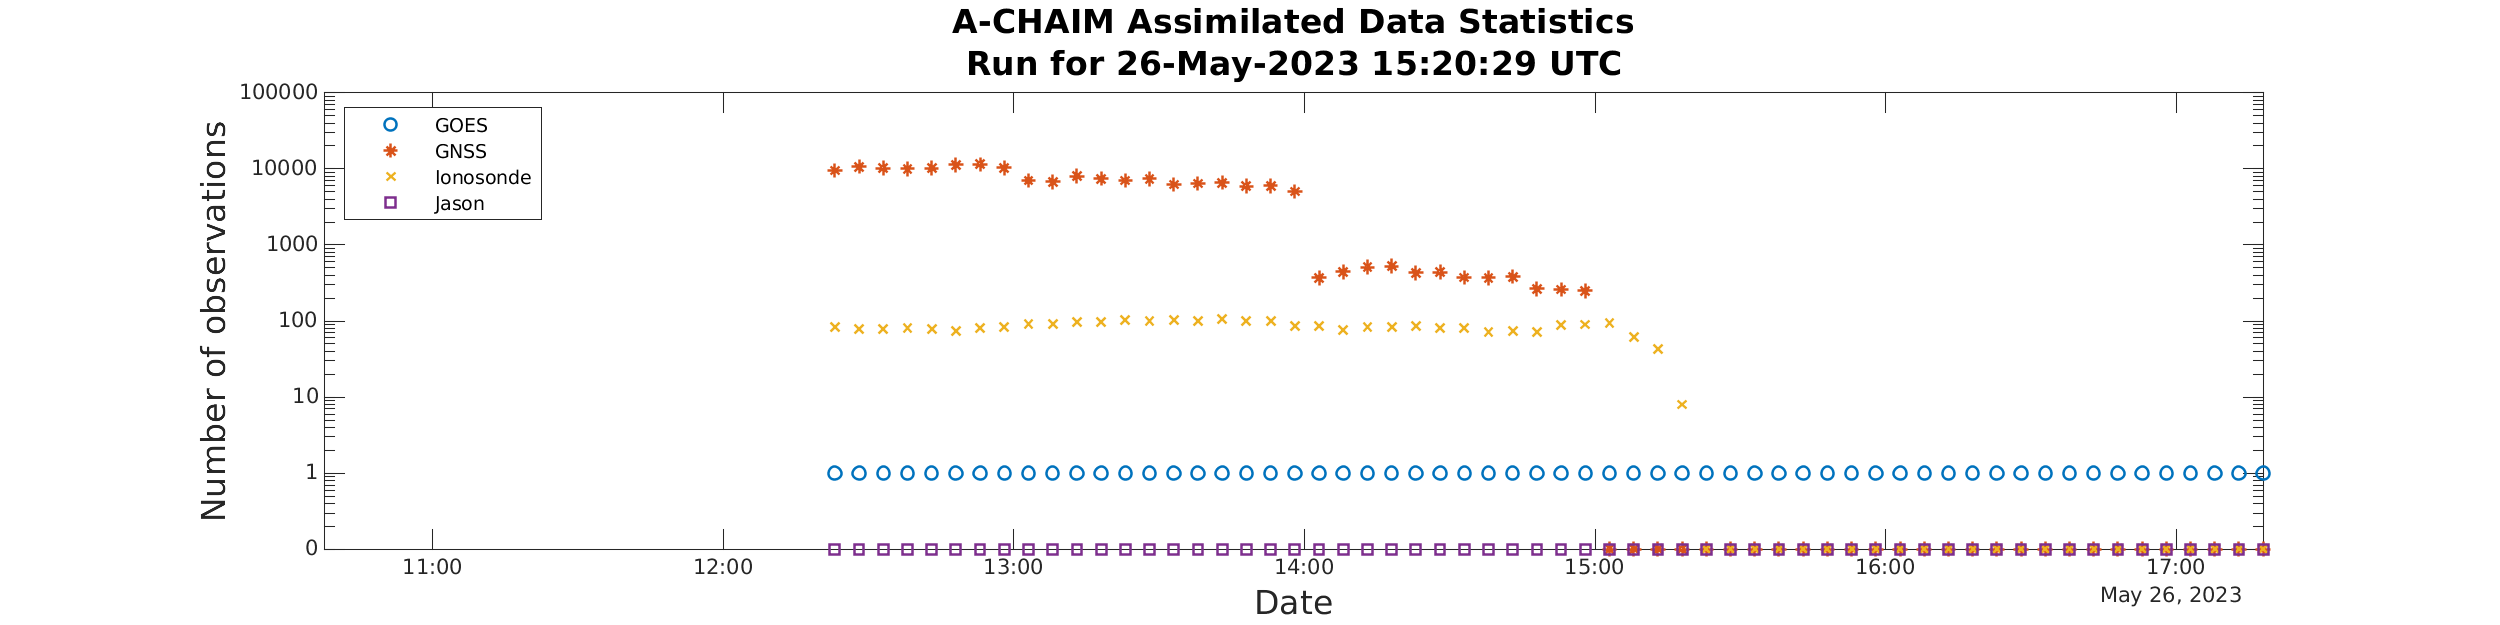
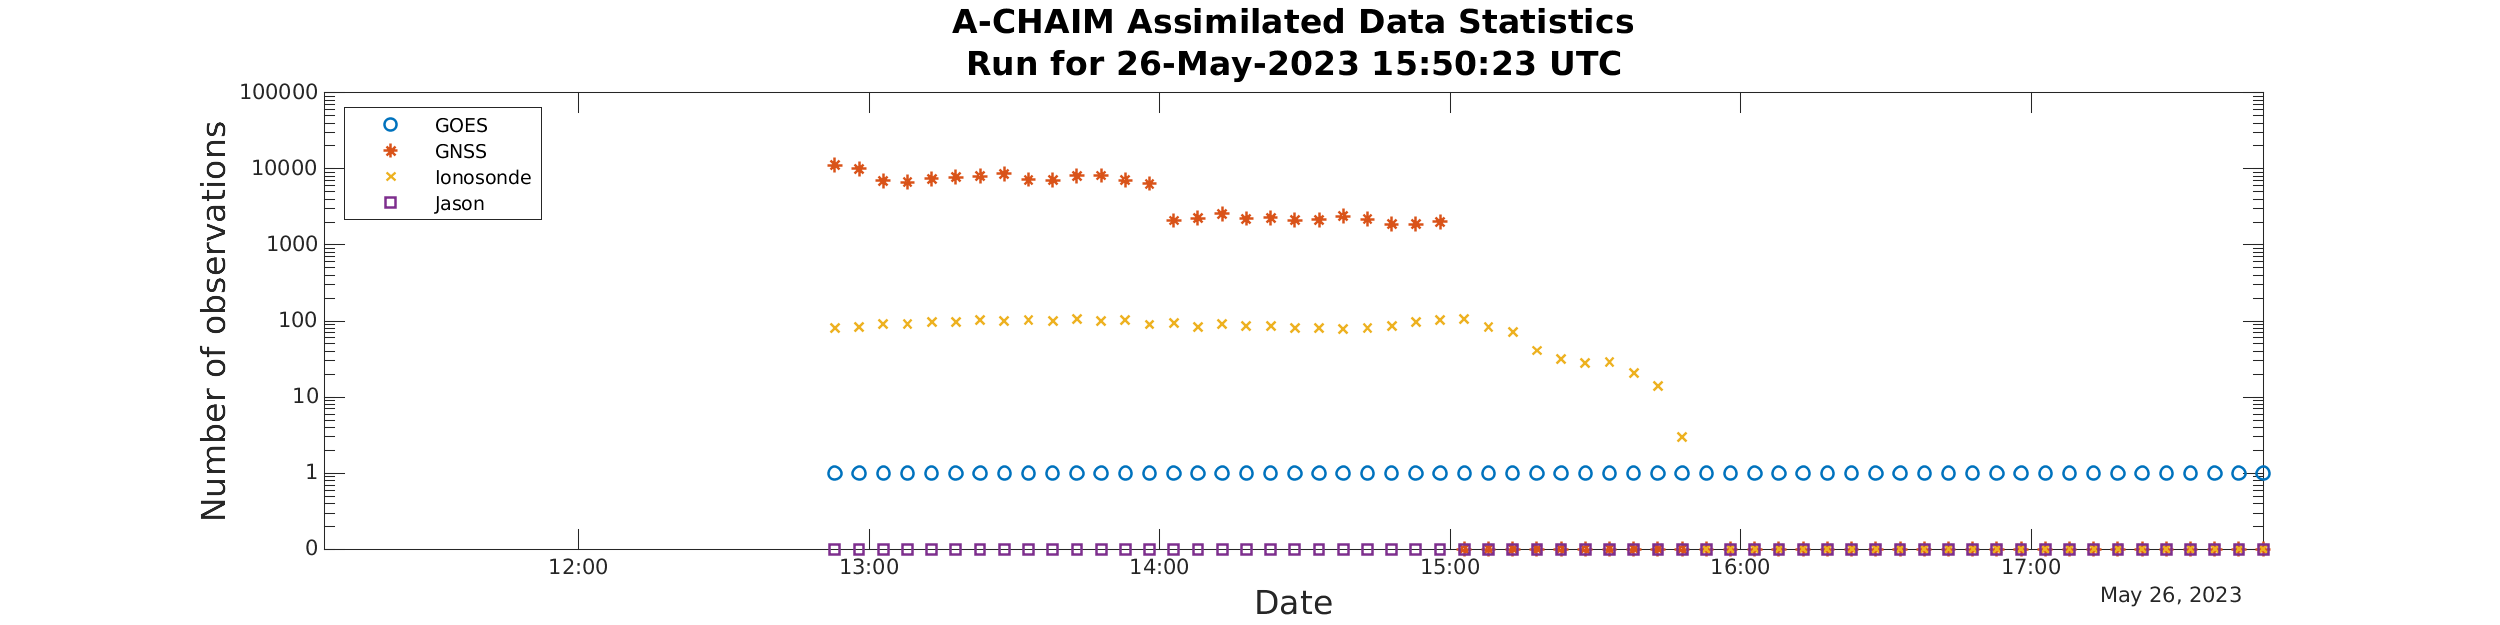
update 2023-05-26 16:14:57

diff --git a/_posts/2023-05-26-15-50-23.md b/_posts/2023-05-26-15-50-23.md
@@ -1,8 +1,8 @@
 ---
 layout: post
-title: "2023-05-26 15:20:29"
-subtitle: "ModelData Issues: 4; A-CHAIM System Issues: 1"
-
+title: "2023-05-26 15:50:23"
+subtitle: "ModelData Issues: 4; A-CHAIM System Issues: 0"
+permalink: /latest/
 ---
 
 ![]({{ "/assets/img/achaimDataStatsShort-2314615.png" | relative_url }})
@@ -17,17 +17,14 @@ subtitle: "ModelData Issues: 4; A-CHAIM System Issues: 1"
 ### ModelData Issues:  
   
 {: .box-warning}  
- ModelData report for 26-May-2023 15:20:14   
+ ModelData report for 26-May-2023 15:50:09   
  /home/chaim/ACHAIM_SERVER/A-CHAIM/modelData/2023/146/15/modelData.mat   
- 6.4935% of IONO foF2 data is non-zero and finite.   
- 0% of all possible stations for JASON were downloaded. x2   
- 0% of all possible stations for KASI were downloaded. x3802   
- 0% of all possible stations for CHAIN were downloaded. x2763   
+ 7.5% of IONO foF2 data is non-zero and finite.   
+ 0% of all possible stations for JASON were downloaded. x3   
+ 0% of all possible stations for KASI were downloaded. x3803   
+ 0% of all possible stations for CHAIN were downloaded. x2764   
   
-### A-CHAIM System Issues:  
-  
-{: .box-error}  
-2023-05-26 14:50:19 Conversion to logical from string is not possible.  
+
 
 ### Logs:  
   
